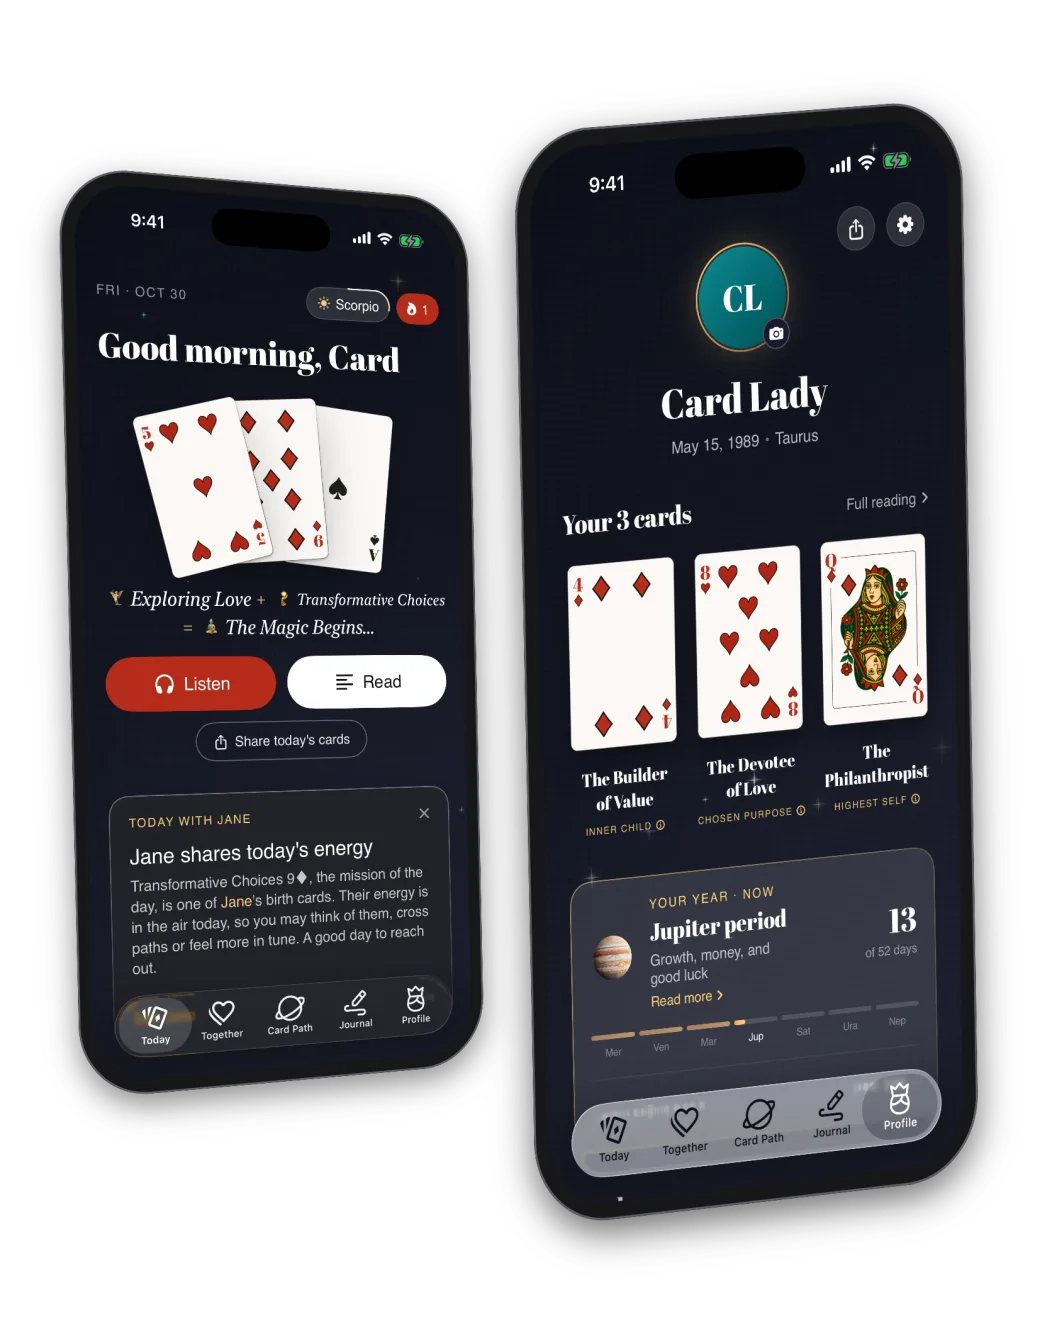
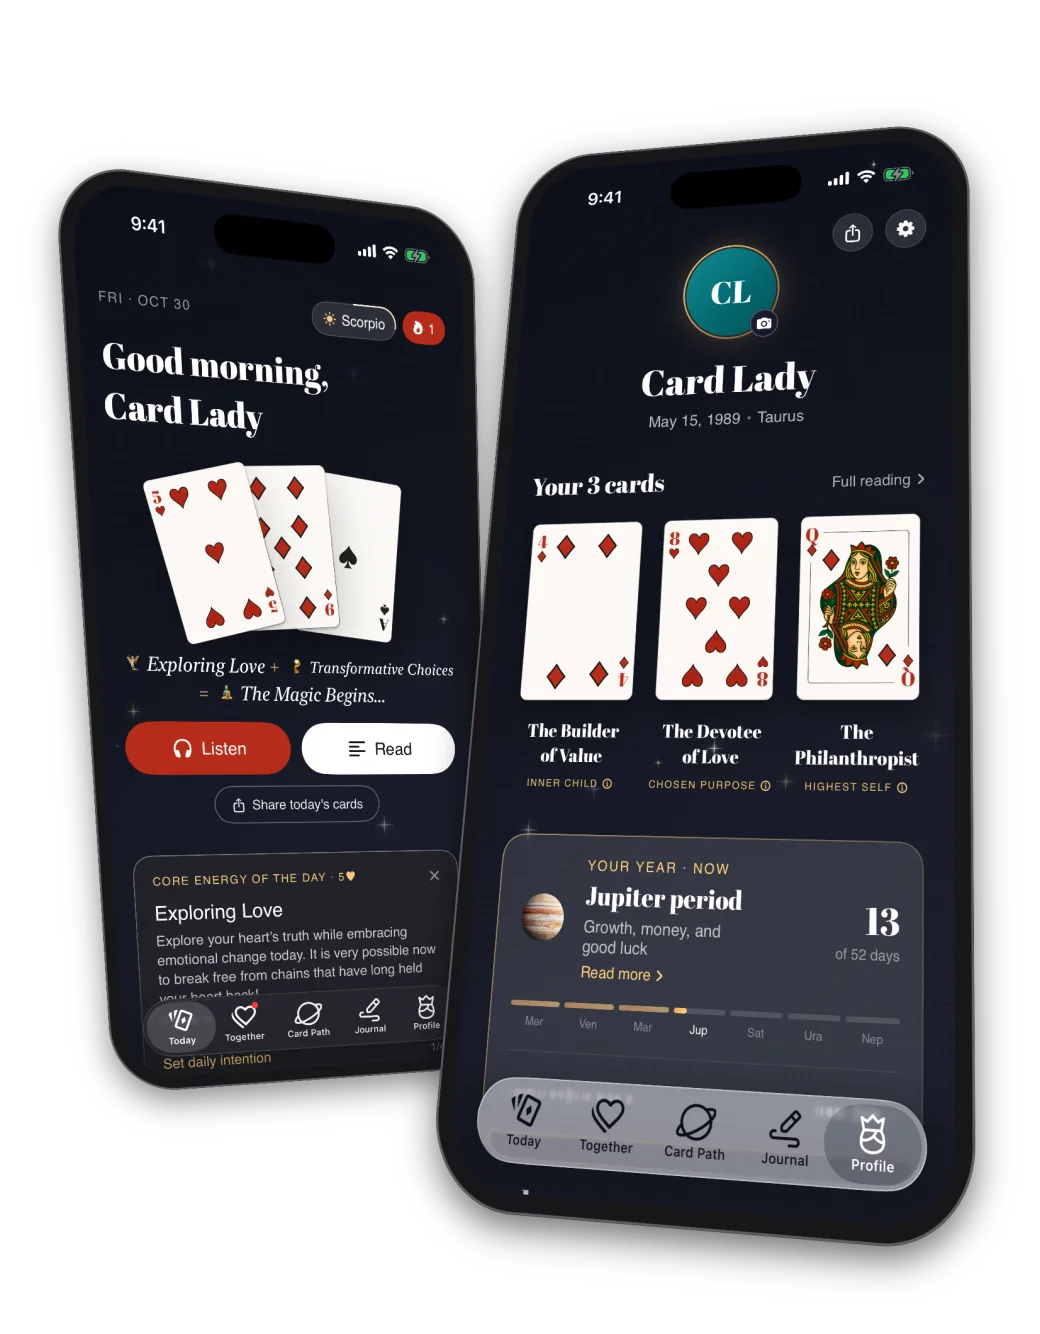
Hero: original phone angles with overlapping bottoms, Good morning Card Lady
Side triangle labels wrap onto two lines so the back phone doesn't hide them.

diff --git a/index.html b/index.html
@@ -347,8 +347,8 @@
     }
     .tri-left { left: 11%; top: 80%; }
     .tri-right { left: 89%; top: 80%; }
-    /* Side labels stay readable where they meet the phones */
-    .tri-left figcaption, .tri-right figcaption { position: relative; z-index: 2; text-shadow: 0 1px 6px rgba(11, 14, 26, 0.95); }
+    /* Side labels on two lines, narrow enough to clear the phones' edges */
+    .tri-left figcaption, .tri-right figcaption { line-height: 1.25; text-shadow: 0 1px 6px rgba(11, 14, 26, 0.95); }
     .tri-apex { left: 50%; top: 20%; width: 19%; animation-delay: 0.4s; }
     .tri-apex img { animation: triApex 0.6s ease-out 2.2s both; }
     @keyframes triApex { from { transform: scale(0.92); } to { transform: scale(1); } }
@@ -1959,8 +1959,8 @@
           <path class="tri-rise" pathLength="1" d="M89 64 L50 16" />
         </svg>
         <div class="tri-glow" aria-hidden="true"></div>
-        <figure class="tri-fig tri-left"><img src="assets/sun-cards/inner-child.webp" alt="" width="120" height="120" /><figcaption>Inner Child</figcaption></figure>
-        <figure class="tri-fig tri-right"><img src="assets/sun-cards/chosen-purpose.webp" alt="" width="120" height="120" /><figcaption>Chosen Purpose</figcaption></figure>
+        <figure class="tri-fig tri-left"><img src="assets/sun-cards/inner-child.webp" alt="" width="120" height="120" /><figcaption>Inner<br />Child</figcaption></figure>
+        <figure class="tri-fig tri-right"><img src="assets/sun-cards/chosen-purpose.webp" alt="" width="120" height="120" /><figcaption>Chosen<br />Purpose</figcaption></figure>
         <figure class="tri-fig tri-apex"><figcaption>Highest Self</figcaption><img src="assets/sun-cards/highest-self.webp" alt="" width="150" height="150" /></figure>
       </div>
       <img src="assets/cardy-hero-520.webp" srcset="assets/cardy-hero-520.webp 520w, assets/cardy-hero-1040.webp 1040w" sizes="(max-width: 600px) 300px, (max-width: 900px) 400px, 520px" width="520" height="667" fetchpriority="high" decoding="async" alt="Cardy app showing daily card readings and friend profiles" />
